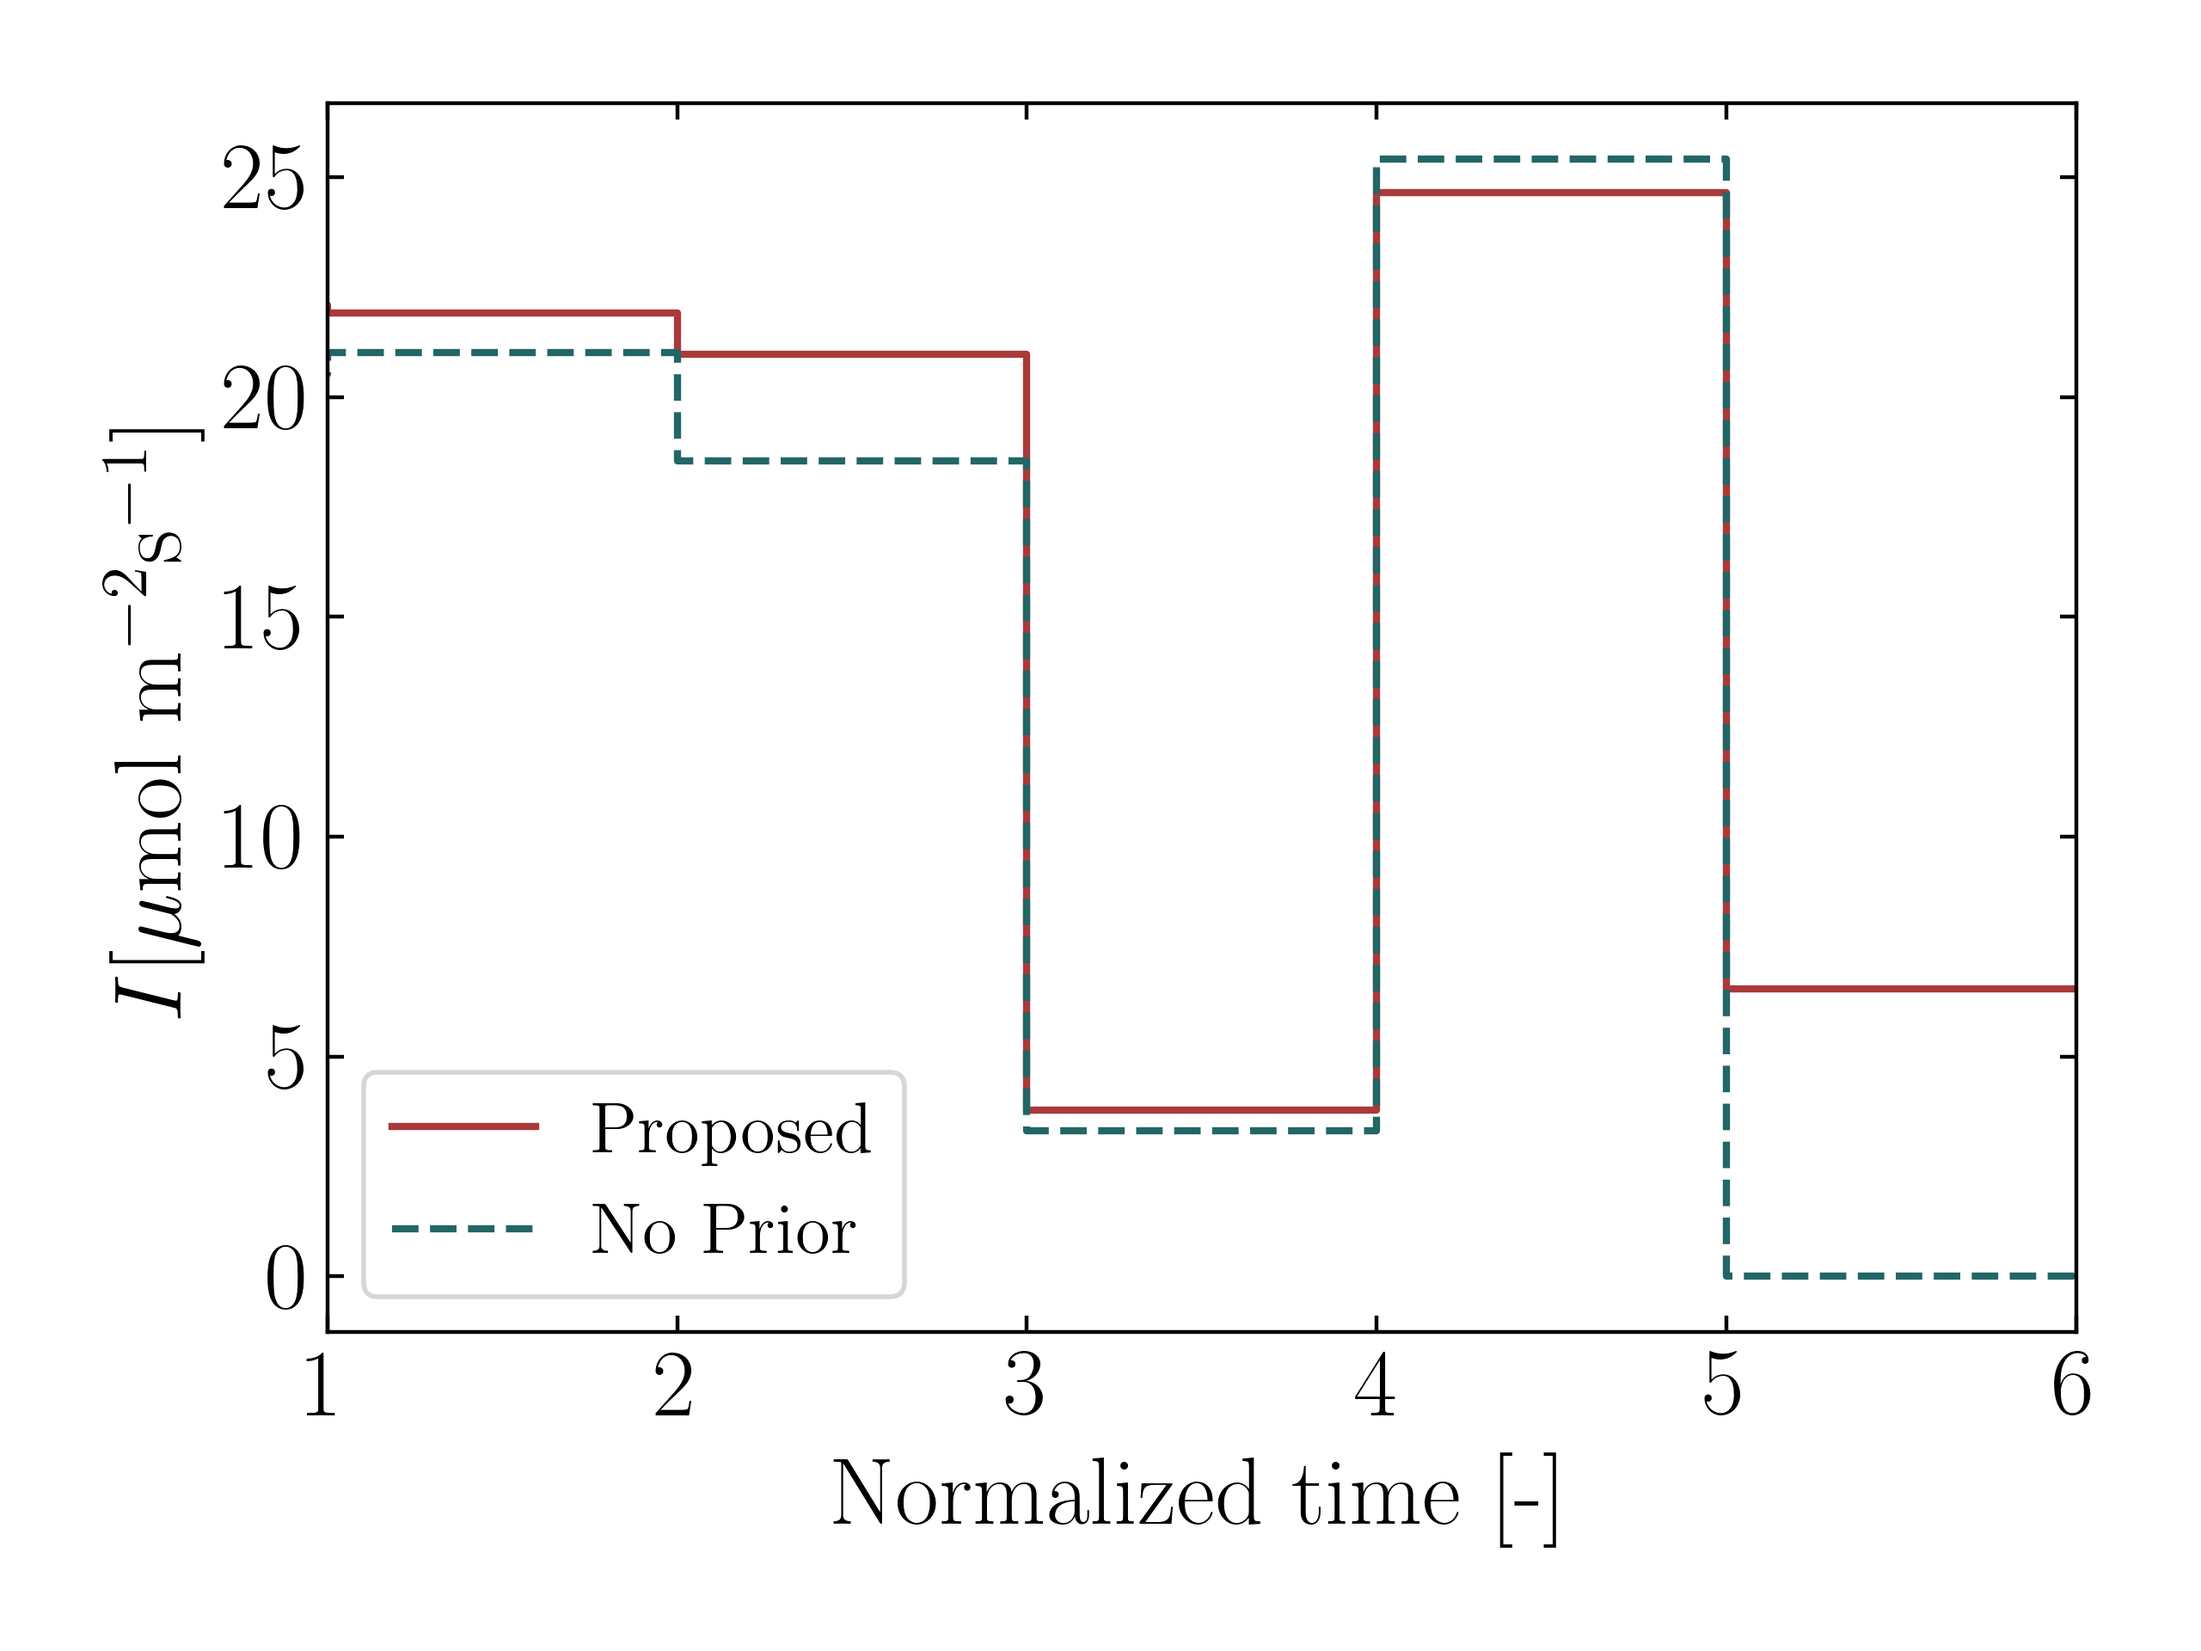
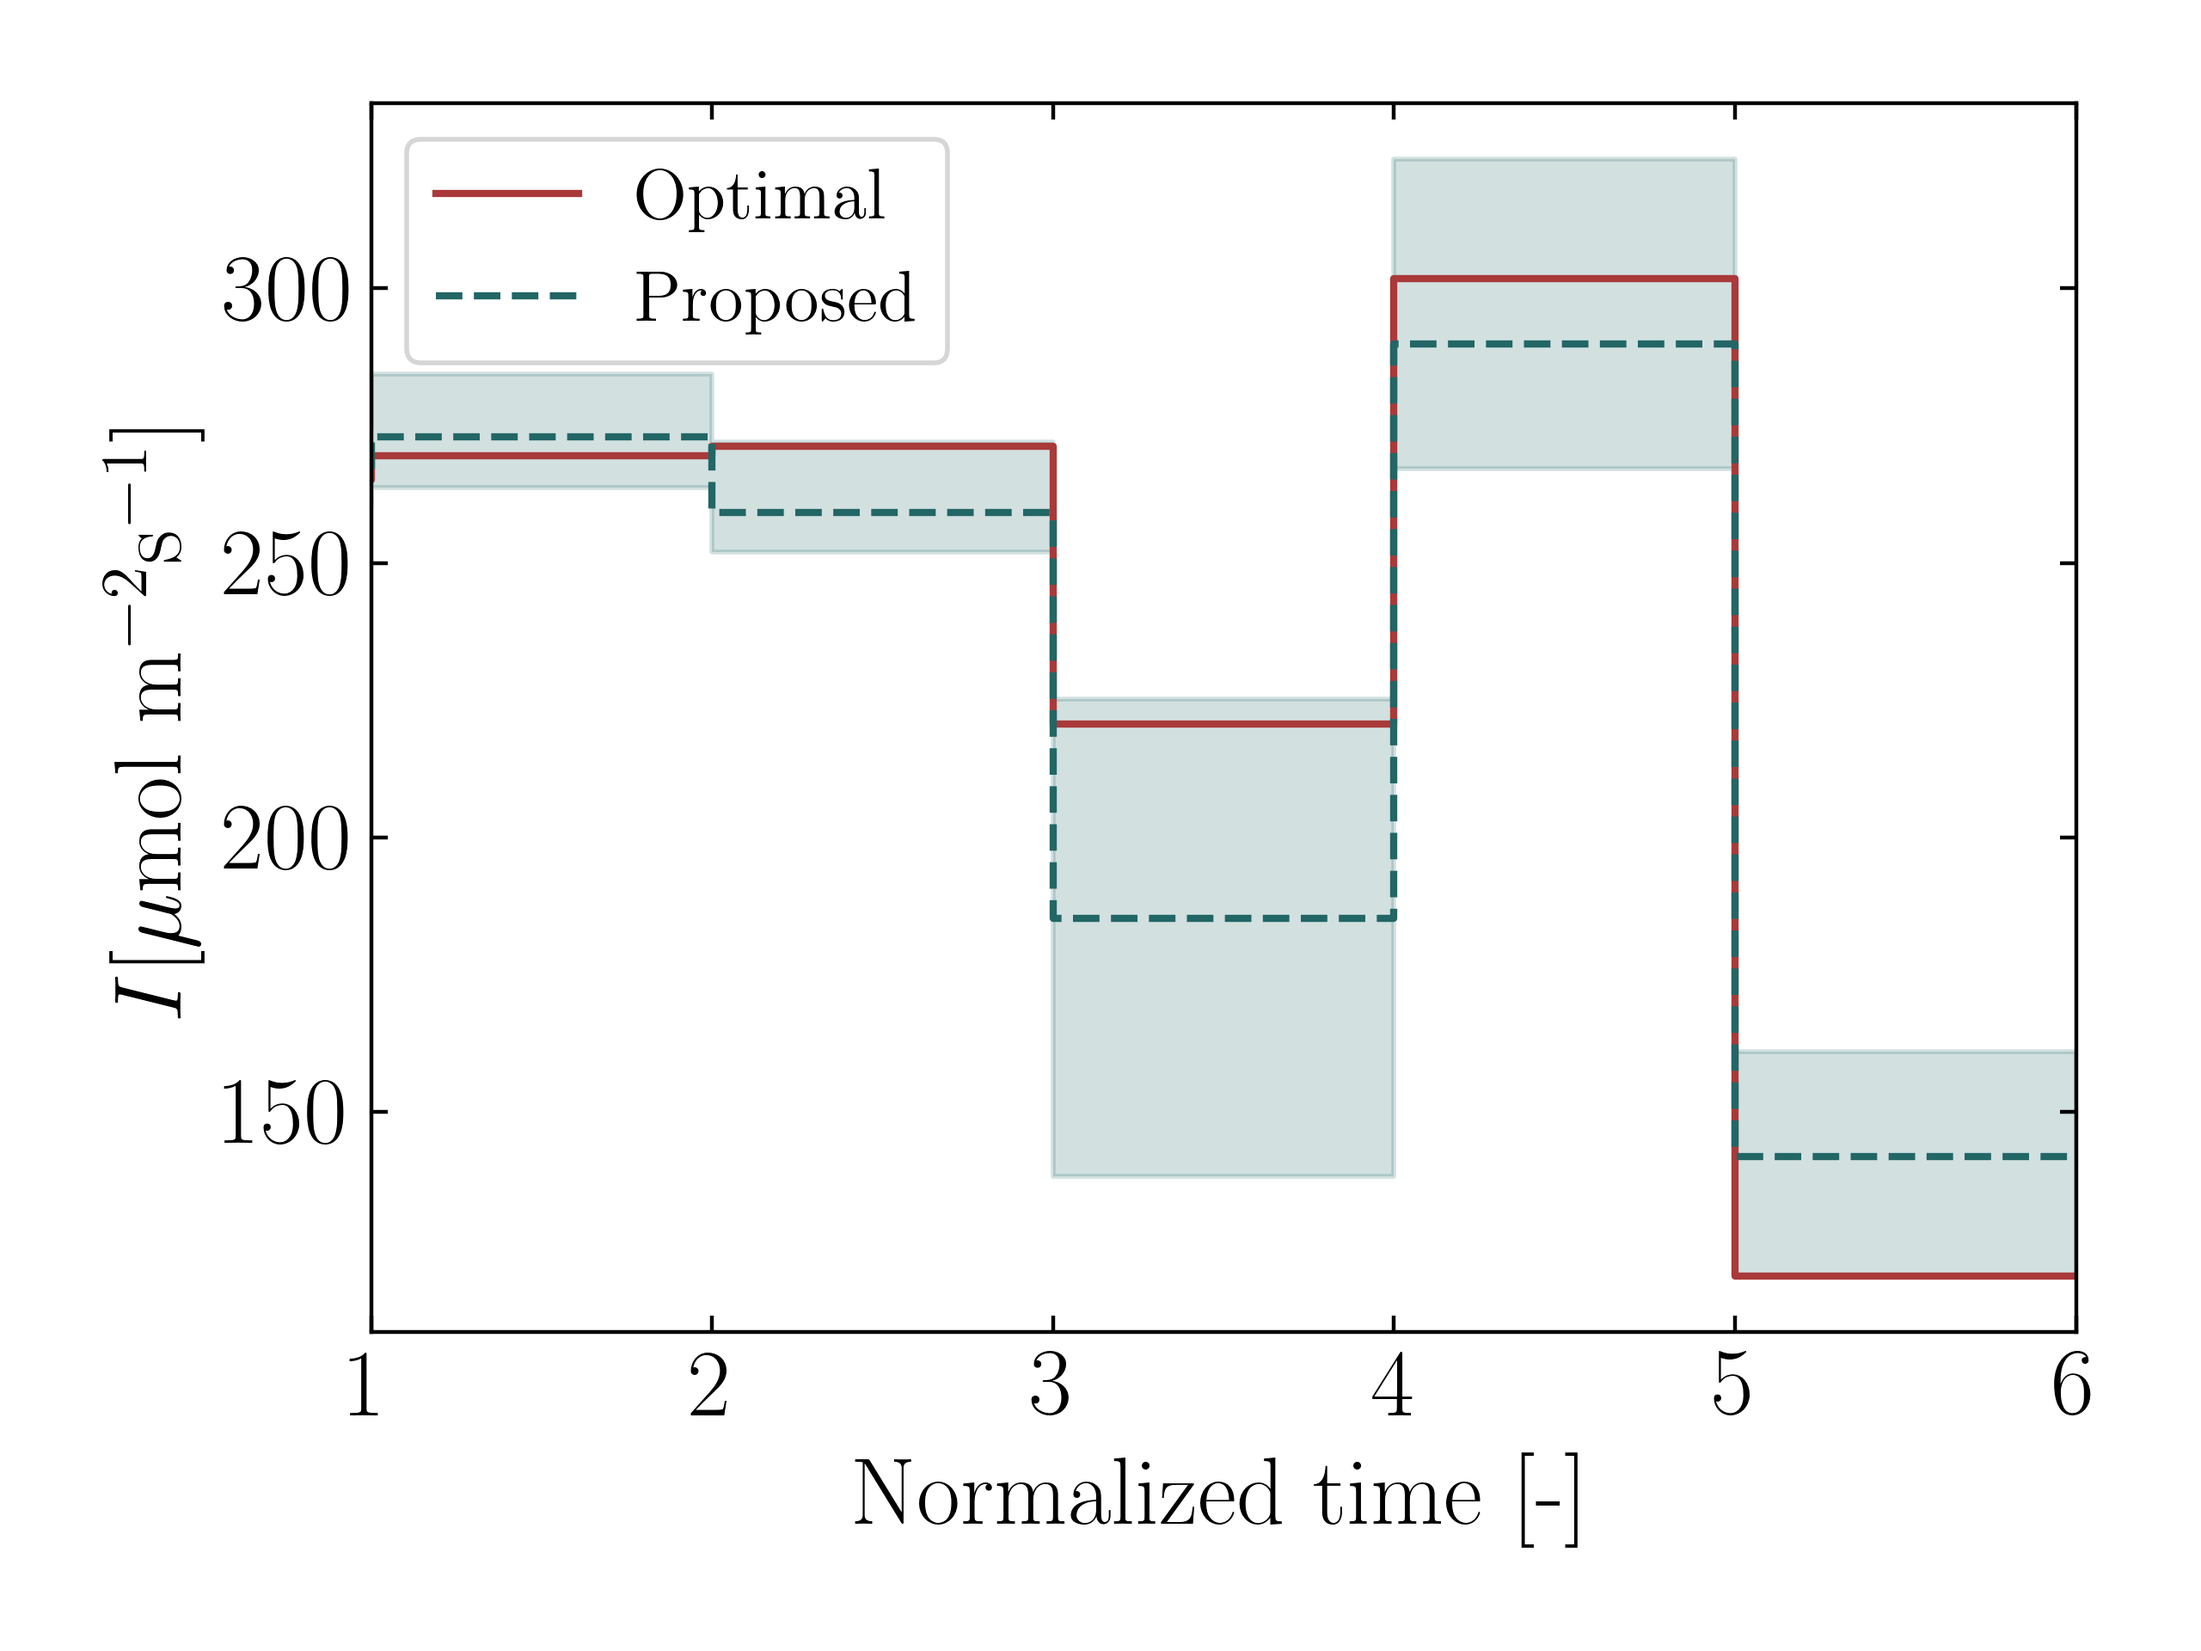
create optimal plots

diff --git a/plots_RTO.py b/plots_RTO.py
@@ -795,7 +795,8 @@ def plot_obj_noise(obj):
 # plt.tight_layout()
 # plt.savefig('figs_WO/EI_bio.png', dpi=400)
 # plt.close()
-
+X_opt_mc, y_opt_mc, TR_l_mc, xnew_mc, backtrack_1_mc = pickle.load(open('no_prior_with_exploration_ei_no_red_constraint_violation_GP.p', 'rb'))
+X_opt_mc_model, y_opt_mc, TR_l_mc, xnew_mc, backtrack_1_mc = pickle.load(open('prior_with_exploration_ei_no_red_constraint_violation.p', 'rb'))
 csfont = {'fontname': 'Times New Roman'}
 
 # plt.rcParams['font.sans-serif'] = "Arial"
@@ -809,10 +810,19 @@ params = {'legend.fontsize': 15,
           'legend.handlelength': 2}
 plt.rcParams.update(params)
 
-plt.step(np.linspace(0,6,7),120*np.array([np.array(X_opt_mc)[3,-1,0].T,*np.array(X_opt_mc)[3,-1,0::2].T]), where='pre',
-         color='#AA3939', label='Proposed')
-plt.step(np.linspace(0,6,7),120*np.array([np.array(X_opt_mc_model)[4,-1,0].T,*np.array(X_opt_mc_model)[4,-1,0::2].T]),'--',where='pre'
-         ,color='#226666', label='No Prior')
+# plt.step(np.linspace(0,6,7),(40-0)*np.array([np.array(X_opt_mc)[3,-1,1].T,*np.array(X_opt_mc)[3,-1,1::2].T])+0, where='pre',
+#          color='#AA3939', label='Proposed')
+plt.step(np.linspace(0,6,7),u1_opt, where='pre',
+         color='#AA3939', label='Optimal')
+
+plt.fill_between(np.linspace(0,6,7),
+                 np.quantile((400-120)*np.array([np.array(u1)[:,-1,1].T,
+                                                 *np.array(u1)[:,-1].T])+120,0.05,axis=1),
+                 np.quantile((400-120)*np.array([np.array(u1)[:,-1,1].T,
+                                                 *np.array(u1)[:,-1].T])+120,0.95,axis=1),'-',step='pre'
+         ,color='#226666',alpha=0.2)
+plt.step(np.linspace(0,6,7),((400-120)*np.array([np.array(u1)[:,-1,1].T,*np.array(u1)[:,-1].T])).mean(1)+120,'--',where='pre'
+         ,color='#226666', label='Proposed')
 
 plt.ylabel('$I [\mu$mol m$^{-2}$s$^{-1}]$ ')
 plt.xlabel('Normalized time [-]')
@@ -824,37 +834,6 @@ plt.tick_params(axis="x", direction="in")
 plt.tight_layout()
 plt.savefig('figs_WO/I.png', dpi=400)
 plt.close()
-
-
-csfont = {'fontname': 'Times New Roman'}
-
-# plt.rcParams['font.sans-serif'] = "Arial"
-plt.rcParams['font.family'] = "Times New Roman"
-ni = 50
-ft = int(20)
-font = {'size': ft}
-plt.rc('font', **font)
-plt.rc('text', usetex=True)
-params = {'legend.fontsize': 15,
-          'legend.handlelength': 2}
-plt.rcParams.update(params)
-
-plt.step(np.linspace(0,6,7),(400-40)*np.array([np.array(X_opt_mc)[3,-1,0].T,*np.array(X_opt_mc)[3,-1,0::2].T])+40, where='pre',
-         color='#AA3939', label='Proposed')
-plt.step(np.linspace(0,6,7),(400-40)*np.array([np.array(X_opt_mc_model)[4,-1,0].T,*np.array(X_opt_mc_model)[4,-1,0::2].T])+40,'--',where='pre'
-         ,color='#226666', label='No Prior')
-
-plt.ylabel('$F_{\sf N} [$mg L$^{-1}$h$^{-1}]$ ')
-plt.xlabel('Normalized time [-]')
-plt.xlim(1, 6)
-plt.legend()
-plt.tick_params(right=True, top=True, left=True, bottom=True)
-plt.tick_params(axis="y", direction="in")
-plt.tick_params(axis="x", direction="in")
-plt.tight_layout()
-plt.savefig('figs_WO/f_N.png', dpi=400)
-plt.close()
-
 
 
 X_opt_mc, y_opt_mc, TR_l_mc, xnew_mc, backtrack_1_mc = pickle.load(open('no_prior_with_exploration_ei_no_red_constraint_violation_GP.p', 'rb'))
@@ -872,40 +851,19 @@ params = {'legend.fontsize': 15,
           'legend.handlelength': 2}
 plt.rcParams.update(params)
 
-plt.step(np.linspace(0,6,7),40*np.array([np.array(X_opt_mc)[3,-1,0].T,*np.array(X_opt_mc)[3,-1,0::2].T]), where='pre',
-         color='#AA3939', label='Proposed')
-plt.step(np.linspace(0,6,7),40*np.array([np.array(X_opt_mc_model)[4,-1,0].T,*np.array(X_opt_mc_model)[4,-1,0::2].T]),'--',where='pre'
-         ,color='#226666', label='No Prior')
+# plt.step(np.linspace(0,6,7),(40-0)*np.array([np.array(X_opt_mc)[3,-1,1].T,*np.array(X_opt_mc)[3,-1,1::2].T])+0, where='pre',
+#          color='#AA3939', label='Proposed')
+plt.step(np.linspace(0,6,7),u2_opt, where='pre',
+         color='#AA3939', label='Optimal')
 
-plt.ylabel('$I [\mu$mol m$^{-2}$s$^{-1}]$ ')
-plt.xlabel('Normalized time [-]')
-plt.xlim(1, 6)
-plt.legend()
-plt.tick_params(right=True, top=True, left=True, bottom=True)
-plt.tick_params(axis="y", direction="in")
-plt.tick_params(axis="x", direction="in")
-plt.tight_layout()
-plt.savefig('figs_WO/I.png', dpi=400)
-plt.close()
-X_opt_mc, y_opt_mc, TR_l_mc, xnew_mc, backtrack_1_mc = pickle.load(open('no_prior_with_exploration_ei_no_red_constraint_violation_GP.p', 'rb'))
-X_opt_mc_model, y_opt_mc, TR_l_mc, xnew_mc, backtrack_1_mc = pickle.load(open('prior_with_exploration_ei_no_red_constraint_violation.p', 'rb'))
-csfont = {'fontname': 'Times New Roman'}
-
-# plt.rcParams['font.sans-serif'] = "Arial"
-plt.rcParams['font.family'] = "Times New Roman"
-ni = 50
-ft = int(20)
-font = {'size': ft}
-plt.rc('font', **font)
-plt.rc('text', usetex=True)
-params = {'legend.fontsize': 15,
-          'legend.handlelength': 2}
-plt.rcParams.update(params)
-
-plt.step(np.linspace(0,6,7),(400-120)*np.array([np.array(X_opt_mc)[3,-1,1].T,*np.array(X_opt_mc)[3,-1,1::2].T])+120, where='pre',
-         color='#AA3939', label='Proposed')
-plt.step(np.linspace(0,6,7),(400-120)*np.array([np.array(X_opt_mc_model)[4,-1,1].T,*np.array(X_opt_mc_model)[4,-1,1::2].T])+120,'--',where='pre'
-         ,color='#226666', label='No Prior')
+plt.fill_between(np.linspace(0,6,7),
+                 np.quantile((40)*np.array([np.array(u2)[:,-1,1].T,
+                                                 *np.array(u2)[:,-1].T]),0.05,axis=1),
+                 np.quantile((40)*np.array([np.array(u2)[:,-1,1].T,
+                                                 *np.array(u2)[:,-1].T]),0.95,axis=1),'-',step='pre'
+         ,color='#226666',alpha=0.2)
+plt.step(np.linspace(0,6,7),((40)*np.array([np.array(u2)[:,-1,1].T,*np.array(u2)[:,-1].T])).mean(1),'--',where='pre'
+         ,color='#226666', label='Proposed')
 
 plt.ylabel('$F_{\sf N} [$mg L$^{-1}$h$^{-1}]$ ')
 plt.xlabel('Normalized time [-]')
@@ -917,3 +875,4 @@ plt.tick_params(axis="x", direction="in")
 plt.tight_layout()
 plt.savefig('figs_WO/f_N.png', dpi=400)
 plt.close()
+
